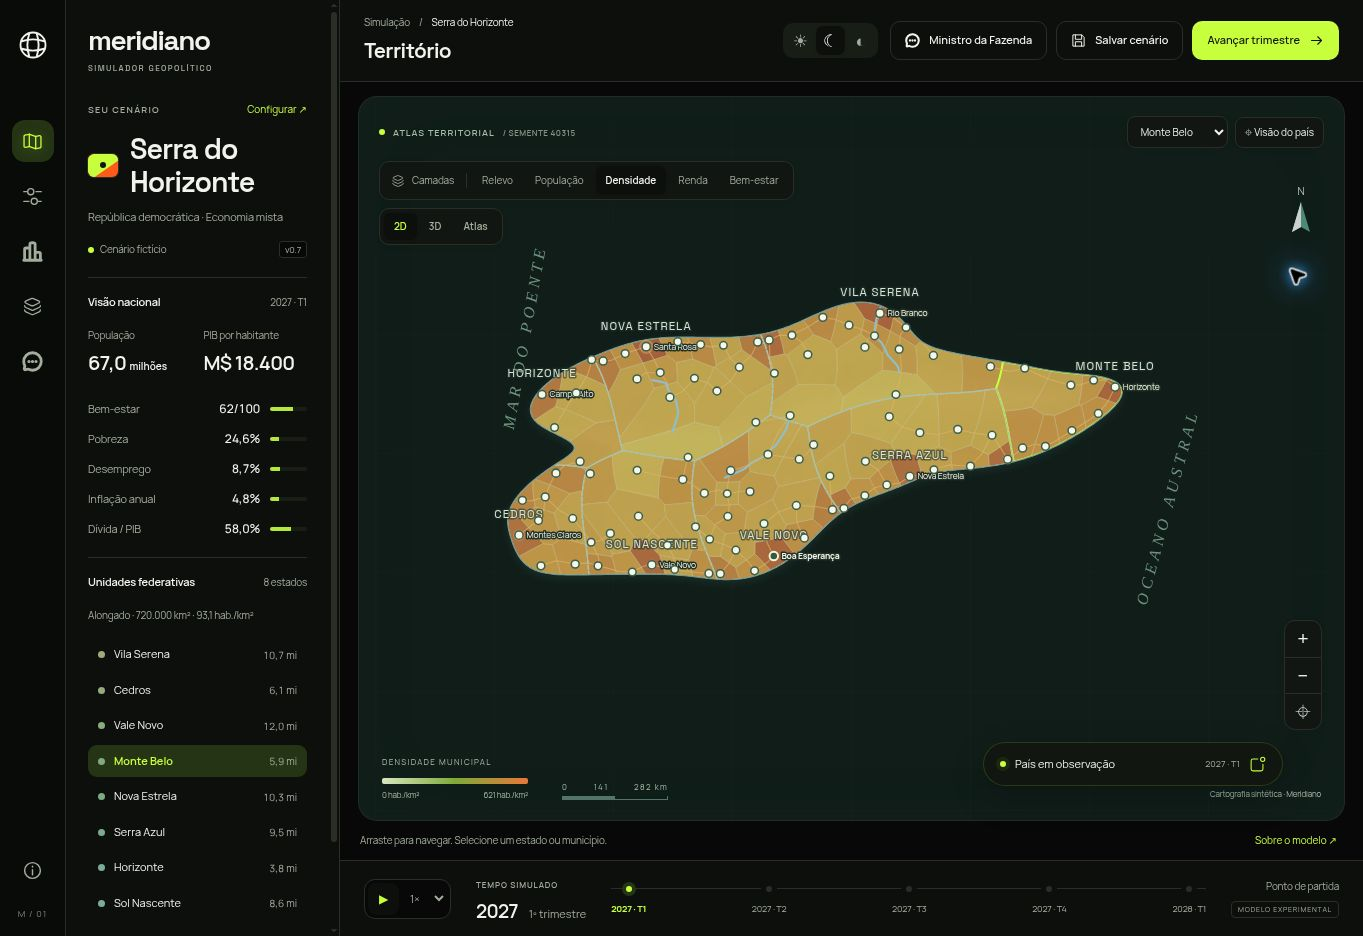
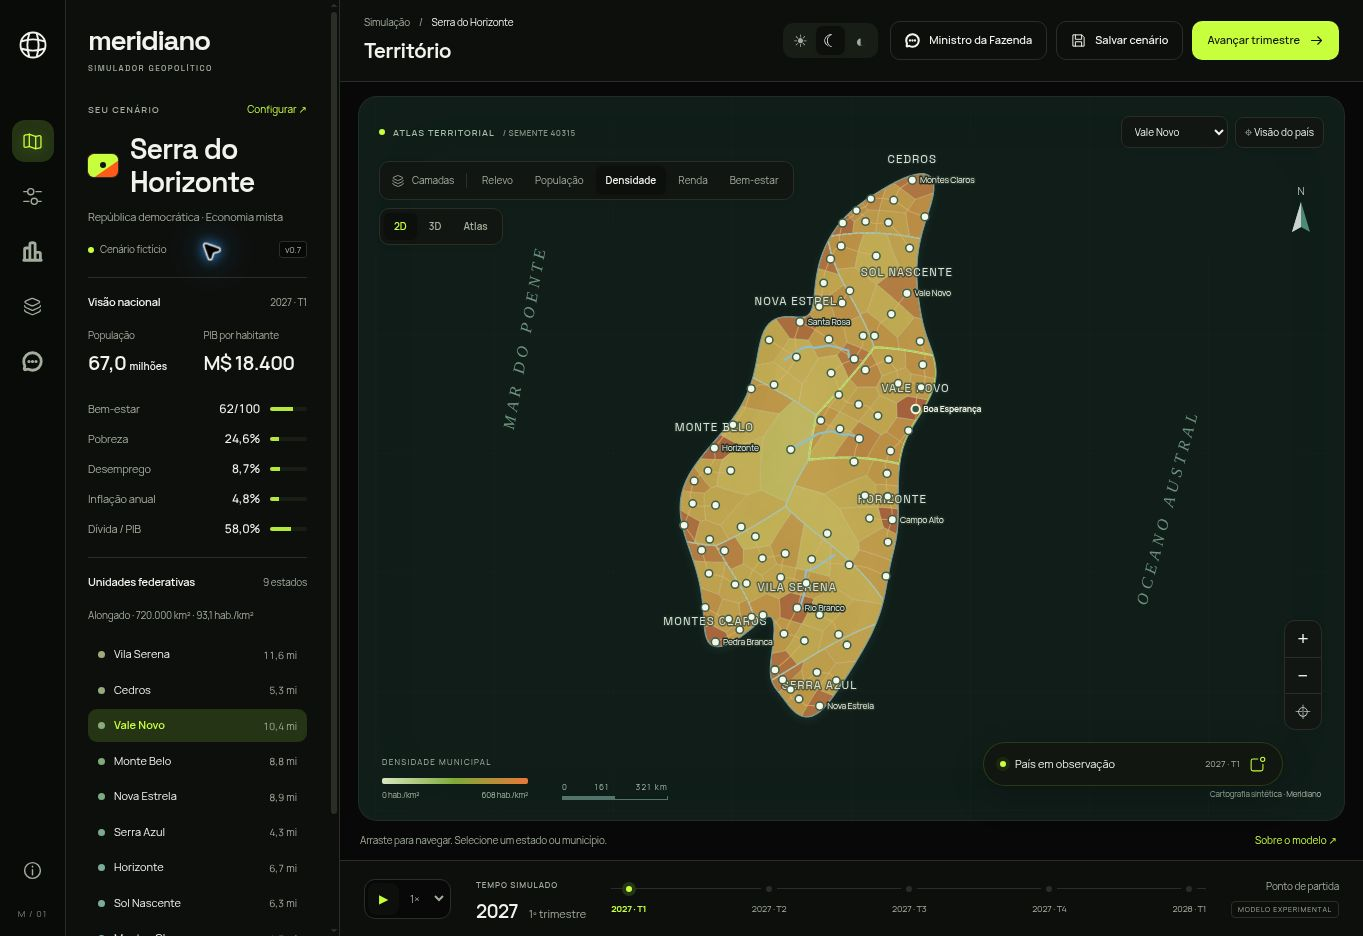
fix: preserve generator replay settings and clarify 3D density aggregation

diff --git a/dist/terrain3d.js b/dist/terrain3d.js
@@ -217,7 +217,10 @@ export function createTerrain3D(host, { state, cities, onSelect, onError }) {
     recolor();
   }
   function recolor() {
-    const c = new THREE.Color(),
+    const metrics = defs.map((_, i) => regionalMetrics(currentState, i)),
+      maxDensity = Math.max(1, ...metrics.map((m) => m.density ?? 0)),
+      maxShare = Math.max(...defs.map((r) => r.share)),
+      c = new THREE.Color(),
       low = new THREE.Color(dark ? "#466f64" : "#729b7b"),
       high = new THREE.Color(dark ? "#9aafa4" : "#e7e4cc");
     owners.forEach((v, i) => {
@@ -227,20 +230,12 @@ export function createTerrain3D(host, { state, cities, onSelect, onError }) {
           elevation(v.x, v.y, state.seed, state.territory?.profile),
         );
       else {
-        const m = regionalMetrics(currentState, v.region),
+        const m = metrics[v.region],
           t =
             layer === "populacao"
-              ? defs[v.region].share / Math.max(...defs.map((r) => r.share))
+              ? defs[v.region].share / maxShare
               : layer === "densidade"
-                ? Math.log1p(m.density ?? 0) /
-                  Math.log1p(
-                    Math.max(
-                      1,
-                      ...defs.map(
-                        (_, j) => regionalMetrics(currentState, j).density ?? 0,
-                      ),
-                    ),
-                  )
+                ? Math.log1p(m.density ?? 0) / Math.log1p(maxDensity)
                 : layer === "renda"
                   ? (m.income /
                       ((currentState.metrics.gdp /

diff --git a/dist/app.js b/dist/app.js
@@ -909,11 +909,22 @@ function applyLayer() {
     relevo: ["ALTITUDE", "0 m", "2.400 m"],
     densidade: [
       state.territory
-        ? "DENSIDADE MUNICIPAL"
+        ? mapMode === "3d"
+          ? "DENSIDADE ESTADUAL"
+          : "DENSIDADE MUNICIPAL"
         : "DENSIDADE · SEM ÁREA NO LEGADO",
       state.territory ? "0 hab./km²" : "Indisponível",
       state.territory
-        ? fmt(maximumDensity, 0) + " hab./km²"
+        ? fmt(
+            mapMode === "3d"
+              ? Math.max(
+                  ...regions.map(
+                    (_, i) => regionalMetrics(state, i).density ?? 0,
+                  ),
+                )
+              : maximumDensity,
+            0,
+          ) + " hab./km²"
         : "Crie um país novo",
     ],
     populacao: [
@@ -1611,7 +1622,7 @@ async function setMapMode(next) {
   }
 }
 $$("[data-map-mode]").forEach(
-  (b) => (b.onclick = () => setMapMode(b.dataset.mapMode)),
+  (b) => (b.onclick = () => setMapMode(b.dataset.mapMode).then(applyLayer)),
 );
 window.addEventListener("pagehide", () => {
   pausePlayback();

diff --git a/dist/territory.js b/dist/territory.js
@@ -109,10 +109,13 @@ export function generateTerritory({
     throw new RangeError("Formato inválido");
   const rand = rng(seed + 4701),
     pick = (a) => a[Math.floor(rand() * a.length)];
-  kind ??= pick(Object.keys(landforms));
-  areaKm2 ??=
-    Math.round(Math.exp(Math.log(35000) + rand() * Math.log(70)) / 100) * 100;
-  urbanization ??= 0.42 + rand() * 0.47;
+  const generatedKind = pick(Object.keys(landforms)),
+    generatedArea =
+      Math.round(Math.exp(Math.log(35000) + rand() * Math.log(70)) / 100) * 100,
+    generatedUrbanization = 0.42 + rand() * 0.47;
+  kind ??= generatedKind;
+  areaKm2 ??= generatedArea;
+  urbanization ??= generatedUrbanization;
   if (
     !Number.isFinite(urbanization) ||
     urbanization < 0.2 ||

diff --git a/tests/territory.test.js b/tests/territory.test.js
@@ -142,3 +142,15 @@ test("v2 incidents reference existing states and survive serialization", async (
   assert.ok(s.territory.regions.some((r) => r.name === event.region));
   assert.deepEqual(decisionFor(JSON.parse(JSON.stringify(s))), event);
 });
+
+test("resolved default settings reproduce the same geography as implicit settings", () => {
+  const a = generateTerritory({ seed: 719, population: 24.8 });
+  const b = generateTerritory({
+    seed: 719,
+    population: 24.8,
+    kind: a.kind,
+    areaKm2: a.areaKm2,
+    urbanization: a.urbanization,
+  });
+  assert.deepEqual(a, b);
+});

diff --git a/docs/VERIFICATION.md b/docs/VERIFICATION.md
@@ -65,10 +65,10 @@ Pendente: chamada Gemini com a chave real e deploy Vercel com a função Node; i
 
 ## v0.7 · território e demografia
 
-- 44 testes aprovados: determinismo e diversidade, conservação nacional/estadual/municipal de população e área, moradores urbanos/rurais, cidades dentro da terra e do estado, densidade, rios descendentes e limites de entrada. Inclui 120 países aleatórios no fluxo API/simulação e testes CPU de geometria Three v2.
+- 45 testes aprovados: determinismo e diversidade, conservação nacional/estadual/municipal de população e área, moradores urbanos/rurais, cidades dentro da terra e do estado, densidade, rios descendentes e limites de entrada. Inclui 120 países aleatórios no fluxo API/simulação e testes CPU de geometria Three v2.
 - O mesmo litoral é conservado ao variar somente a população inicial. Avançar mantém a geografia e conserva as participações locais. Cenário legado permanece com seis estados, sem área ou densidade fabricadas.
 - GeoJSON do Atlas usa as mesmas fronteiras e população; coordenadas finitas. Acontecimentos v2 referenciam estados existentes. Contexto do Nilo limitado e validado, sem polígonos/campos extras, conferido com transporte de provedor simulado em teste automatizado; nenhuma chave real usada.
-- Browser: cenário antigo Aurora abriu sem conversão. Novo país Serra do Horizonte (semente 40315, 67 milhões, área 720.000 km², alongado) apresentou oito estados e densidade nacional 93,1 hab./km². Selecionar Pedra Branca da Serra mostrou 11.103 km², 124,5 hab./km² e 72% de população urbana. Divisas e dados preservados ao recarregar.
+- Browser: cenário antigo Aurora abriu sem conversão. Novo país Serra do Horizonte (semente 40315, 67 milhões, área 720.000 km², alongado) apresentou nove estados e densidade nacional 93,1 hab./km². Selecionar Pedra Branca da Serra mostrou 9.045 km², 156,8 hab./km² e 79% de população urbana. Divisas e dados preservados ao recarregar.
 - Camada de densidade e seletores operáveis. Desktop 1363×936: document client/scroll 1363×936, sem overflow externo; temas claro e escuro inspecionados. Iframe mobile 390×844: document client/scroll width 380/380, rolagem vertical natural (1475px), camada operável. Não equivale a toque em dispositivo físico.
 - O browser não fornece WebGL: Atlas exibiu fallback SVG com dados preservados; 3D retornou para 2D. Renderização, rótulos nativos, worker e desempenho GPU MapLibre/Three permanecem pendentes de QA em dispositivo compatível. Não foi declarado FPS.
 - Pacotes e worker locais; `.mjs` servido com MIME JavaScript no servidor local. Licenças principais e transitivas preservadas. Sem tiles externos, migração, rotas econômicas ou economia municipal autônoma. Arquivo temporário de QA removido.
